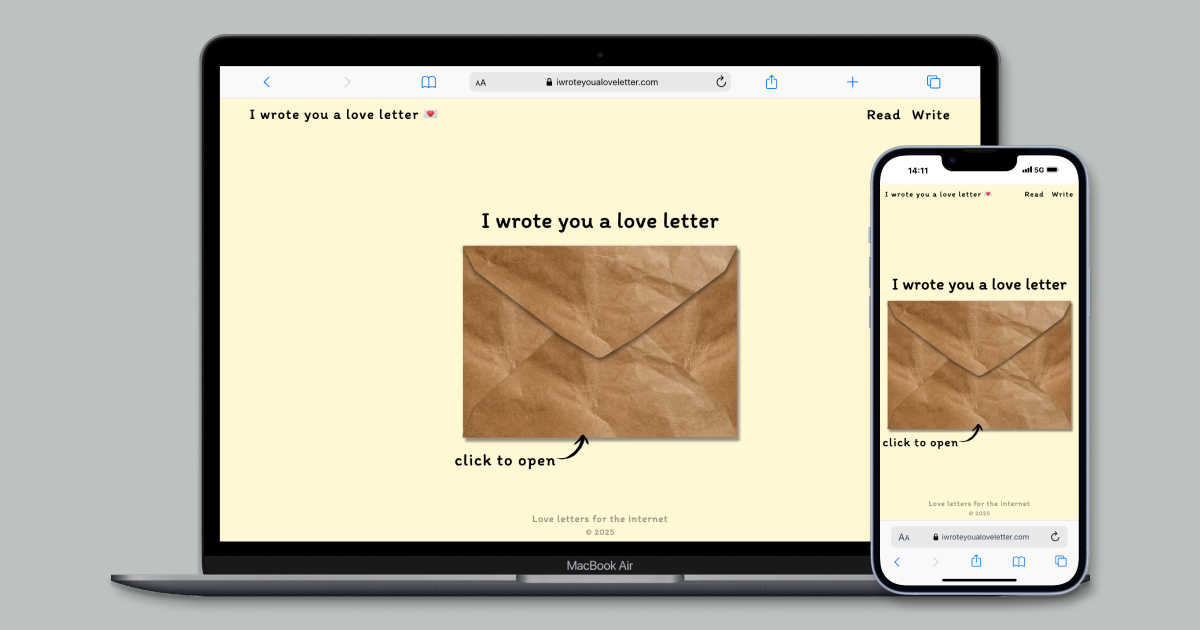
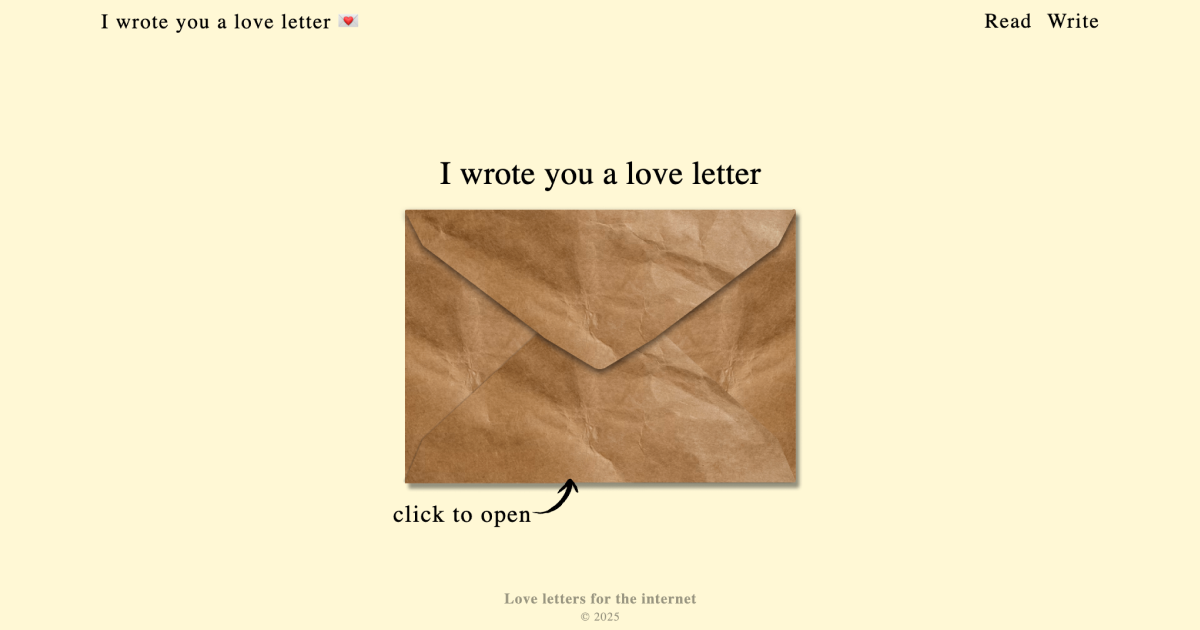
fix: fonts + previews

diff --git a/src/templates/write.html b/src/templates/write.html
@@ -6,16 +6,14 @@
     <link rel="stylesheet" href="/static/styles.css">
     <link rel="preconnect" href="https://fonts.googleapis.com">
     <link rel="preconnect" href="https://fonts.gstatic.com" crossorigin>
-    <link href="https://fonts.googleapis.com/css2?family=Playwrite+IN:wght@100..400&display=swap" rel="stylesheet">
+    <link href="https://fonts.googleapis.com/css2?family=Itim&display=swap" rel="stylesheet">
 
-    <!-- Basic Meta Tags -->
     <meta name="title" content="I Wrote You a Love Letter">
     <meta name="description" content="Love letters for the internet.">
     <meta name="author" content="Shalin Ahasan">
     <meta name="keywords" content="love letters, digital love, romantic messages, poetry, creative writing">
     <meta name="theme-color" content="#ff69b4">
     
-    <!-- Open Graph (OG) Meta Tags for Social Sharing -->
     <meta property="og:type" content="website">
     <meta property="og:title" content="I Wrote You a Love Letter">
     <meta property="og:description" content="Love letters for the internet.">
@@ -24,14 +22,12 @@
     <meta property="og:site_name" content="I Wrote You a Love Letter">
     <meta property="og:locale" content="en_US">
     
-    <!-- Twitter Card Meta Tags -->
     <meta name="twitter:card" content="summary_large_image">
     <meta name="twitter:title" content="I Wrote You a Love Letter">
     <meta name="twitter:description" content="Love letters for the internet.">
     <meta name="twitter:image" content="https://iwroteyoualoveletter.com/static/assets/preview-2.png">
     <meta name="twitter:creator" content="@shalin_1">
 
-    <!-- Schema.org Structured Data (JSON-LD) -->
     <script type="application/ld+json">
     {
         "@context": "https://schema.org",

diff --git a/src/templates/index.html b/src/templates/index.html
@@ -6,8 +6,8 @@
     <link rel="stylesheet" href="/static/styles.css">
     <link rel="preconnect" href="https://fonts.googleapis.com">
     <link rel="preconnect" href="https://fonts.gstatic.com" crossorigin>
-    <link href="https://fonts.googleapis.com/css2?family=Playwrite+IN:wght@100..400&display=swap" rel="stylesheet">
-
+    <link href="https://fonts.googleapis.com/css2?family=Itim&display=swap" rel="stylesheet">
+    
     <!-- Basic Meta Tags -->
     <meta name="title" content="I Wrote You a Love Letter">
     <meta name="description" content="Love letters for the internet.">

diff --git a/src/templates/letter.html b/src/templates/letter.html
@@ -6,7 +6,7 @@
     <link rel="stylesheet" href="/static/styles.css">
     <link rel="preconnect" href="https://fonts.googleapis.com">
     <link rel="preconnect" href="https://fonts.gstatic.com" crossorigin>
-    <link href="https://fonts.googleapis.com/css2?family=Playwrite+IN:wght@100..400&display=swap" rel="stylesheet">
+    <link href="https://fonts.googleapis.com/css2?family=Itim&display=swap" rel="stylesheet">
 
     <!-- Basic Meta Tags -->
     <meta name="title" content="I Wrote You a Love Letter">

diff --git a/src/static/styles.css b/src/static/styles.css
@@ -98,12 +98,14 @@ body{
     justify-content: center;
     align-items: center;
     opacity: 0.4;
+    font-family: "Itim";
 }
 
 .footer-container p{
     font-size: 1.25rem;
     font-weight: 600;
     letter-spacing: 0.75px;
+    font-family: "Itim";
 }
 
 .footer-container p:last-of-type{

diff --git a/src/app.py b/src/app.py
@@ -66,11 +66,6 @@ def letter(letter_id: str):
     return render_template("letter.html", letter=letter_html, letter_id=letter_id)
 
 
-@app.get("/coming-soon")
-def coming_soon():
-    return render_template("coming-soon.html")
-
-
 if __name__ == "__main__":
     port = int(os.environ.get("PORT", 8080))
     app.run(debug=True, host="0.0.0.0", port=port)
